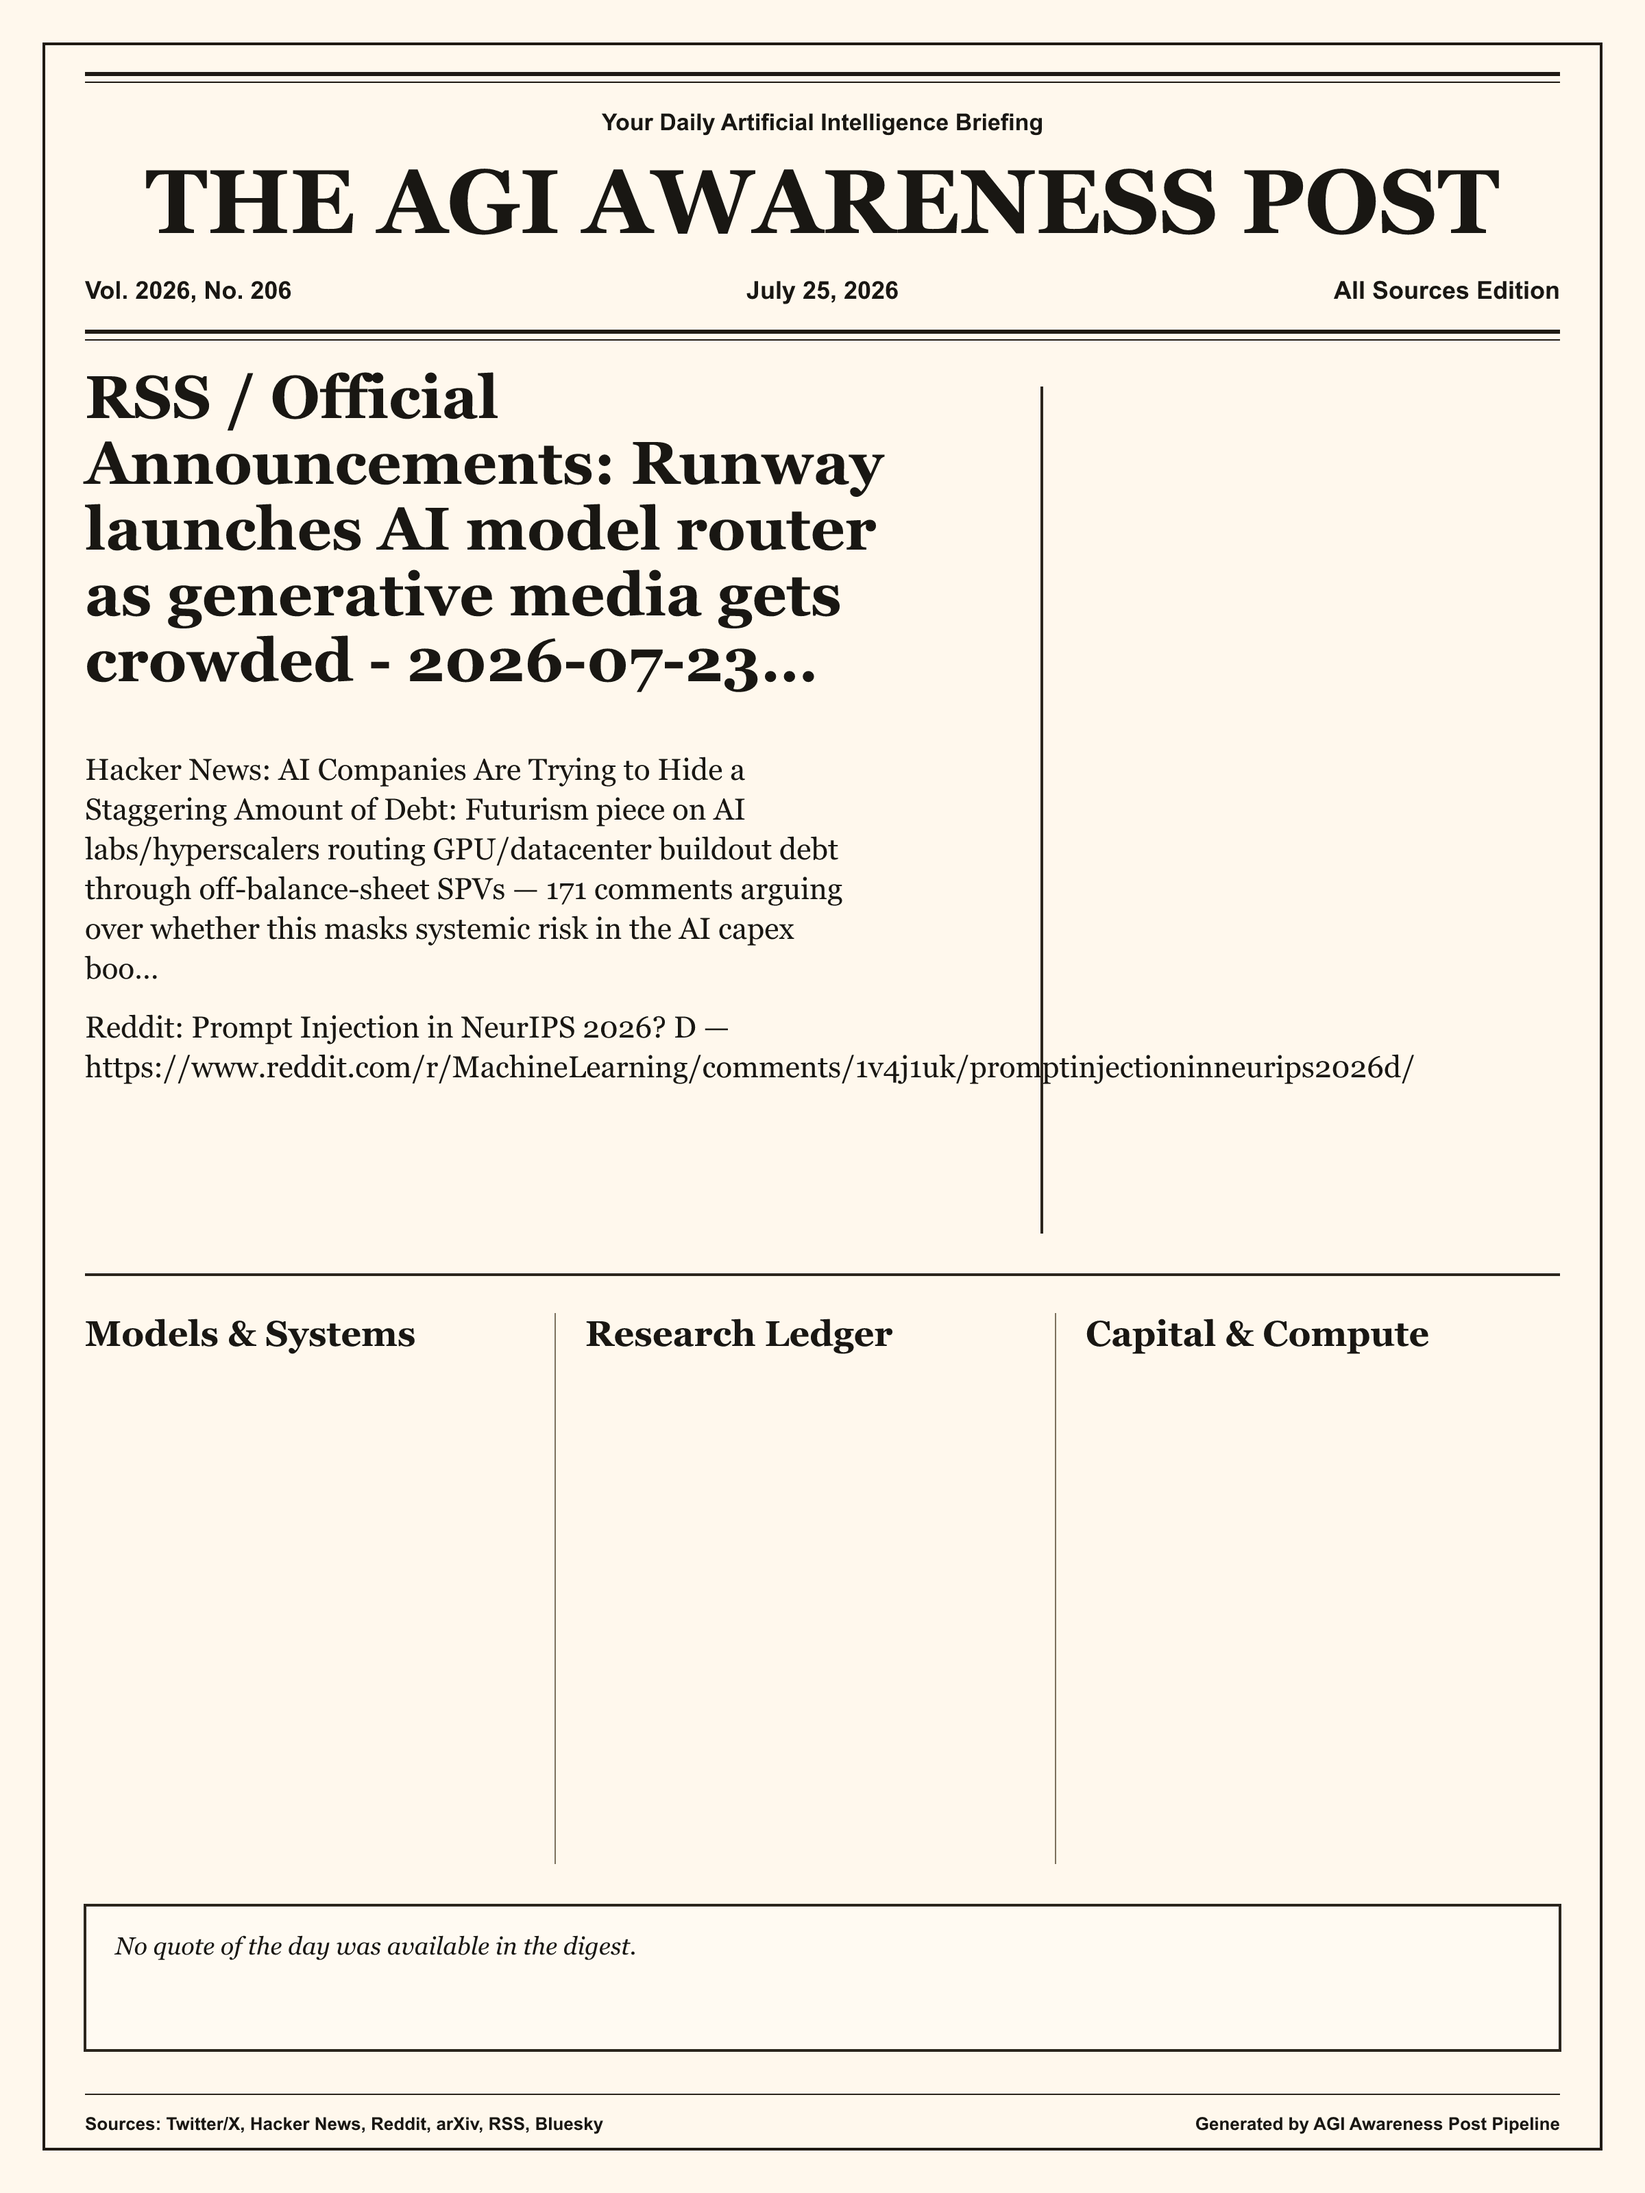
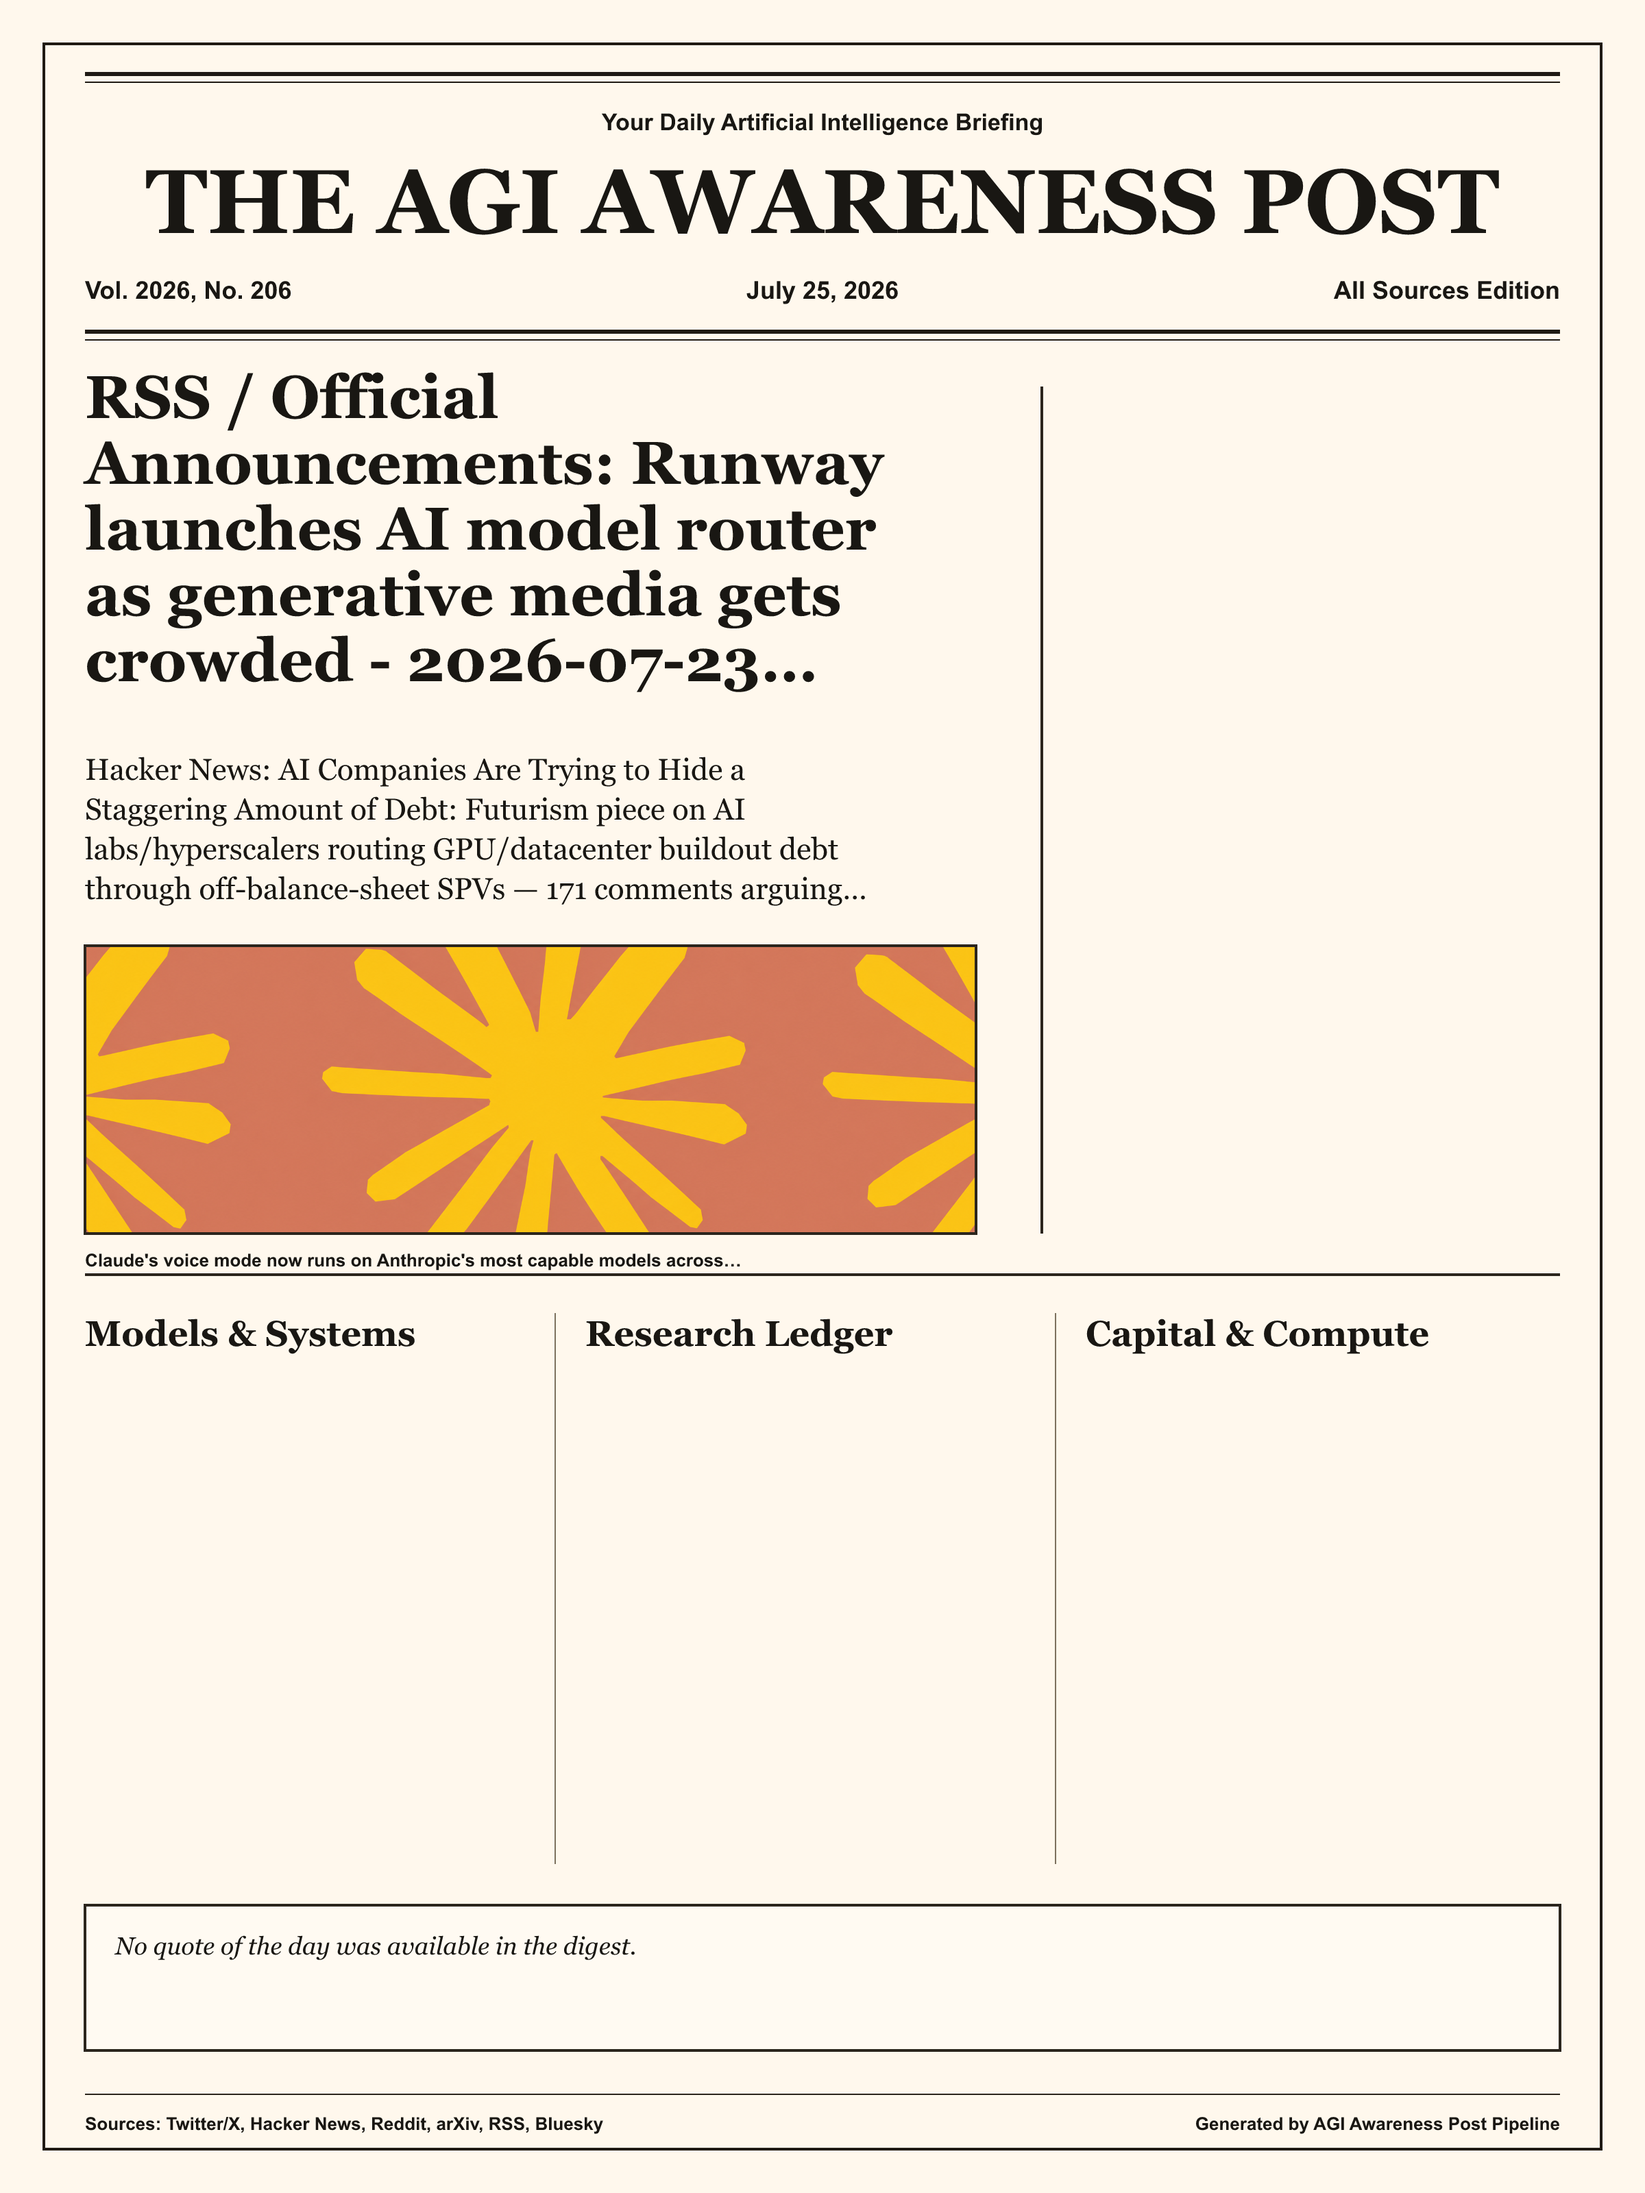
Front page 2026-07-25

Changed region(s): [[0.0312, 0.4062, 0.8438, 0.5938]]

diff --git a/research/front-page/2026-07-25-front-page.html b/research/front-page/2026-07-25-front-page.html
@@ -3,7 +3,7 @@
 <nav class="ara-paper-index" aria-label="In this edition"><div class="ara-paper-index-title">In this edition</div><div class="ara-paper-index-links"><a class="ara-paper-index-link" href="#lead-top-story">Lead</a><a class="ara-paper-index-link" href="#briefs-breaking-policy">Breaking</a><a class="ara-paper-index-link" href="#meter-signal-mix">Signals</a><a class="ara-paper-index-link" href="#deck-departments">Departments</a></div></nav>
 <section class="ara-paper-lead" id="lead-top-story"><div class="ara-paper-label">Top Story</div><button class="ara-paper-toggle" type="button" aria-expanded="true" aria-controls="lead-top-story-body"><span>RSS / Official Announcements: Runway launches AI model router as generative media gets crowded - 2026-07-23 17:07 UTC</span><span class="ara-paper-toggle-icon" aria-hidden="true">⌄</span></button><div class="ara-paper-collapsible" id="lead-top-story-body"><p>Hacker News: AI Companies Are Trying to Hide a Staggering Amount of Debt: Futurism piece on AI labs/hyperscalers routing GPU/datacenter buildout debt through off-balance-sheet SPVs — 171 comments arguing over whether this masks systemic risk in the AI capex boo…</p>
 <p>Reddit: Prompt Injection in NeurIPS 2026? D — https://www.reddit.com/r/MachineLearning/comments/1v4j1uk/promptinjectioninneurips2026d/</p></div></section>
-<figure class="ara-figure ara-figure--wide"><img src="https://techcrunch.com/wp-content/uploads/2026/07/Runway-Media-Router.png?resize=1200,793" alt="Runway launches AI model router as generative media gets crowded" loading="lazy" decoding="async" referrerpolicy="no-referrer"><figcaption class="ara-caption"><span class="ara-caption-text">RSS / Official Announcements: Runway launches AI model router as generative media gets crowded - 2026-07-23 17:07 UTC</span><span class="ara-credit">Source: <a href="https://techcrunch.com/2026/07/23/runway-bets-on-ai-model-routing-as-generative-media-gets-crowded/">Source</a></span></figcaption></figure>
+<figure class="ara-figure ara-figure--wide"><img src="https://the-decoder.com/wp-content/uploads/2026/07/claude_opus_5_logo-scaled.webp" alt="Anthropic claims its new Claude Opus 5 delivers near-Fable 5 performance at half the token price" loading="lazy" decoding="async" referrerpolicy="no-referrer"><figcaption class="ara-caption"><span class="ara-caption-text">Anthropic claims its new Claude Opus 5 delivers near-Fable 5 performance at half the token price</span><span class="ara-credit">Source: <a href="https://the-decoder.com/anthropic-claims-its-new-claude-opus-5-delivers-near-fable-5-performance-at-half-the-token-price/">Source</a></span></figcaption></figure>
 <section class="ara-paper-briefs" id="briefs-breaking-policy" data-columns="2"><h3 class="ara-paper-section-title">Breaking &amp; Policy</h3><div class="ara-paper-brief-grid"><details class="ara-paper-brief"><summary><span class="ara-paper-brief-rank">01</span><span class="ara-paper-brief-tag">Policy</span><span class="ara-paper-brief-headline">No breaking or policy items were highlighted in this edition.</span></summary></details></div></section>
 <section class="ara-paper-meter" id="meter-signal-mix"><h3 class="ara-paper-section-title">Signal Mix</h3><div class="ara-paper-meter-row ara-paper-meter-row--hot"><div class="ara-paper-meter-label"><span>Breaking news</span><strong>0 items</strong></div><div class="ara-paper-meter-track"><span class="ara-paper-meter-fill" data-pct="0"></span></div></div><div class="ara-paper-meter-row ara-paper-meter-row--watch"><div class="ara-paper-meter-label"><span>Model releases</span><strong>0 items</strong></div><div class="ara-paper-meter-track"><span class="ara-paper-meter-fill" data-pct="0"></span></div></div><div class="ara-paper-meter-row ara-paper-meter-row--research"><div class="ara-paper-meter-label"><span>Research highlights</span><strong>0 items</strong></div><div class="ara-paper-meter-track"><span class="ara-paper-meter-fill" data-pct="0"></span></div></div><div class="ara-paper-meter-row ara-paper-meter-row--market"><div class="ara-paper-meter-label"><span>Funding and compute</span><strong>0 items</strong></div><div class="ara-paper-meter-track"><span class="ara-paper-meter-fill" data-pct="0"></span></div></div></section>
 <section class="ara-paper-story-deck" id="deck-departments"><h3 class="ara-paper-section-title">Departments</h3><div class="ara-paper-story-list"><details class="ara-paper-story ara-paper-story--hot"><summary><span>Models &amp; Systems</span></summary><div class="ara-paper-story-meta">0 digest items</div><p>No items reported in this section.</p></details><details class="ara-paper-story ara-paper-story--research"><summary><span>Research Ledger</span></summary><div class="ara-paper-story-meta">0 digest items</div><p>No items reported in this section.</p></details><details class="ara-paper-story ara-paper-story--market"><summary><span>Capital &amp; Compute</span></summary><div class="ara-paper-story-meta">0 digest items</div><p>No items reported in this section.</p></details></div></section>

diff --git a/research/front-page/2026-07-25-front-page.ara.md b/research/front-page/2026-07-25-front-page.ara.md
@@ -25,7 +25,7 @@ Hacker News: AI Companies Are Trying to Hide a Staggering Amount of Debt: Futuri
 Reddit: Prompt Injection in NeurIPS 2026? D — https://www.reddit.com/r/MachineLearning/comments/1v4j1uk/promptinjectioninneurips2026d/
 :::
 
-:::figure(src="https://techcrunch.com/wp-content/uploads/2026/07/Runway-Media-Router.png?resize=1200,793", alt="Runway launches AI model router as generative media gets crowded", caption="RSS / Official Announcements: Runway launches AI model router as generative media gets crowded - 2026-07-23 17:07 UTC", source-url="https://techcrunch.com/2026/07/23/runway-bets-on-ai-model-routing-as-generative-media-gets-crowded/", variant=wide)
+:::figure(src="https://the-decoder.com/wp-content/uploads/2026/07/claude_opus_5_logo-scaled.webp", alt="Anthropic claims its new Claude Opus 5 delivers near-Fable 5 performance at half the token price", caption="Anthropic claims its new Claude Opus 5 delivers near-Fable 5 performance at half the token price", source-url="https://the-decoder.com/anthropic-claims-its-new-claude-opus-5-delivers-near-fable-5-performance-at-half-the-token-price/", variant=wide)
 :::
 
 :::briefs(id="briefs-breaking-policy", title="Breaking & Policy", columns=2)
